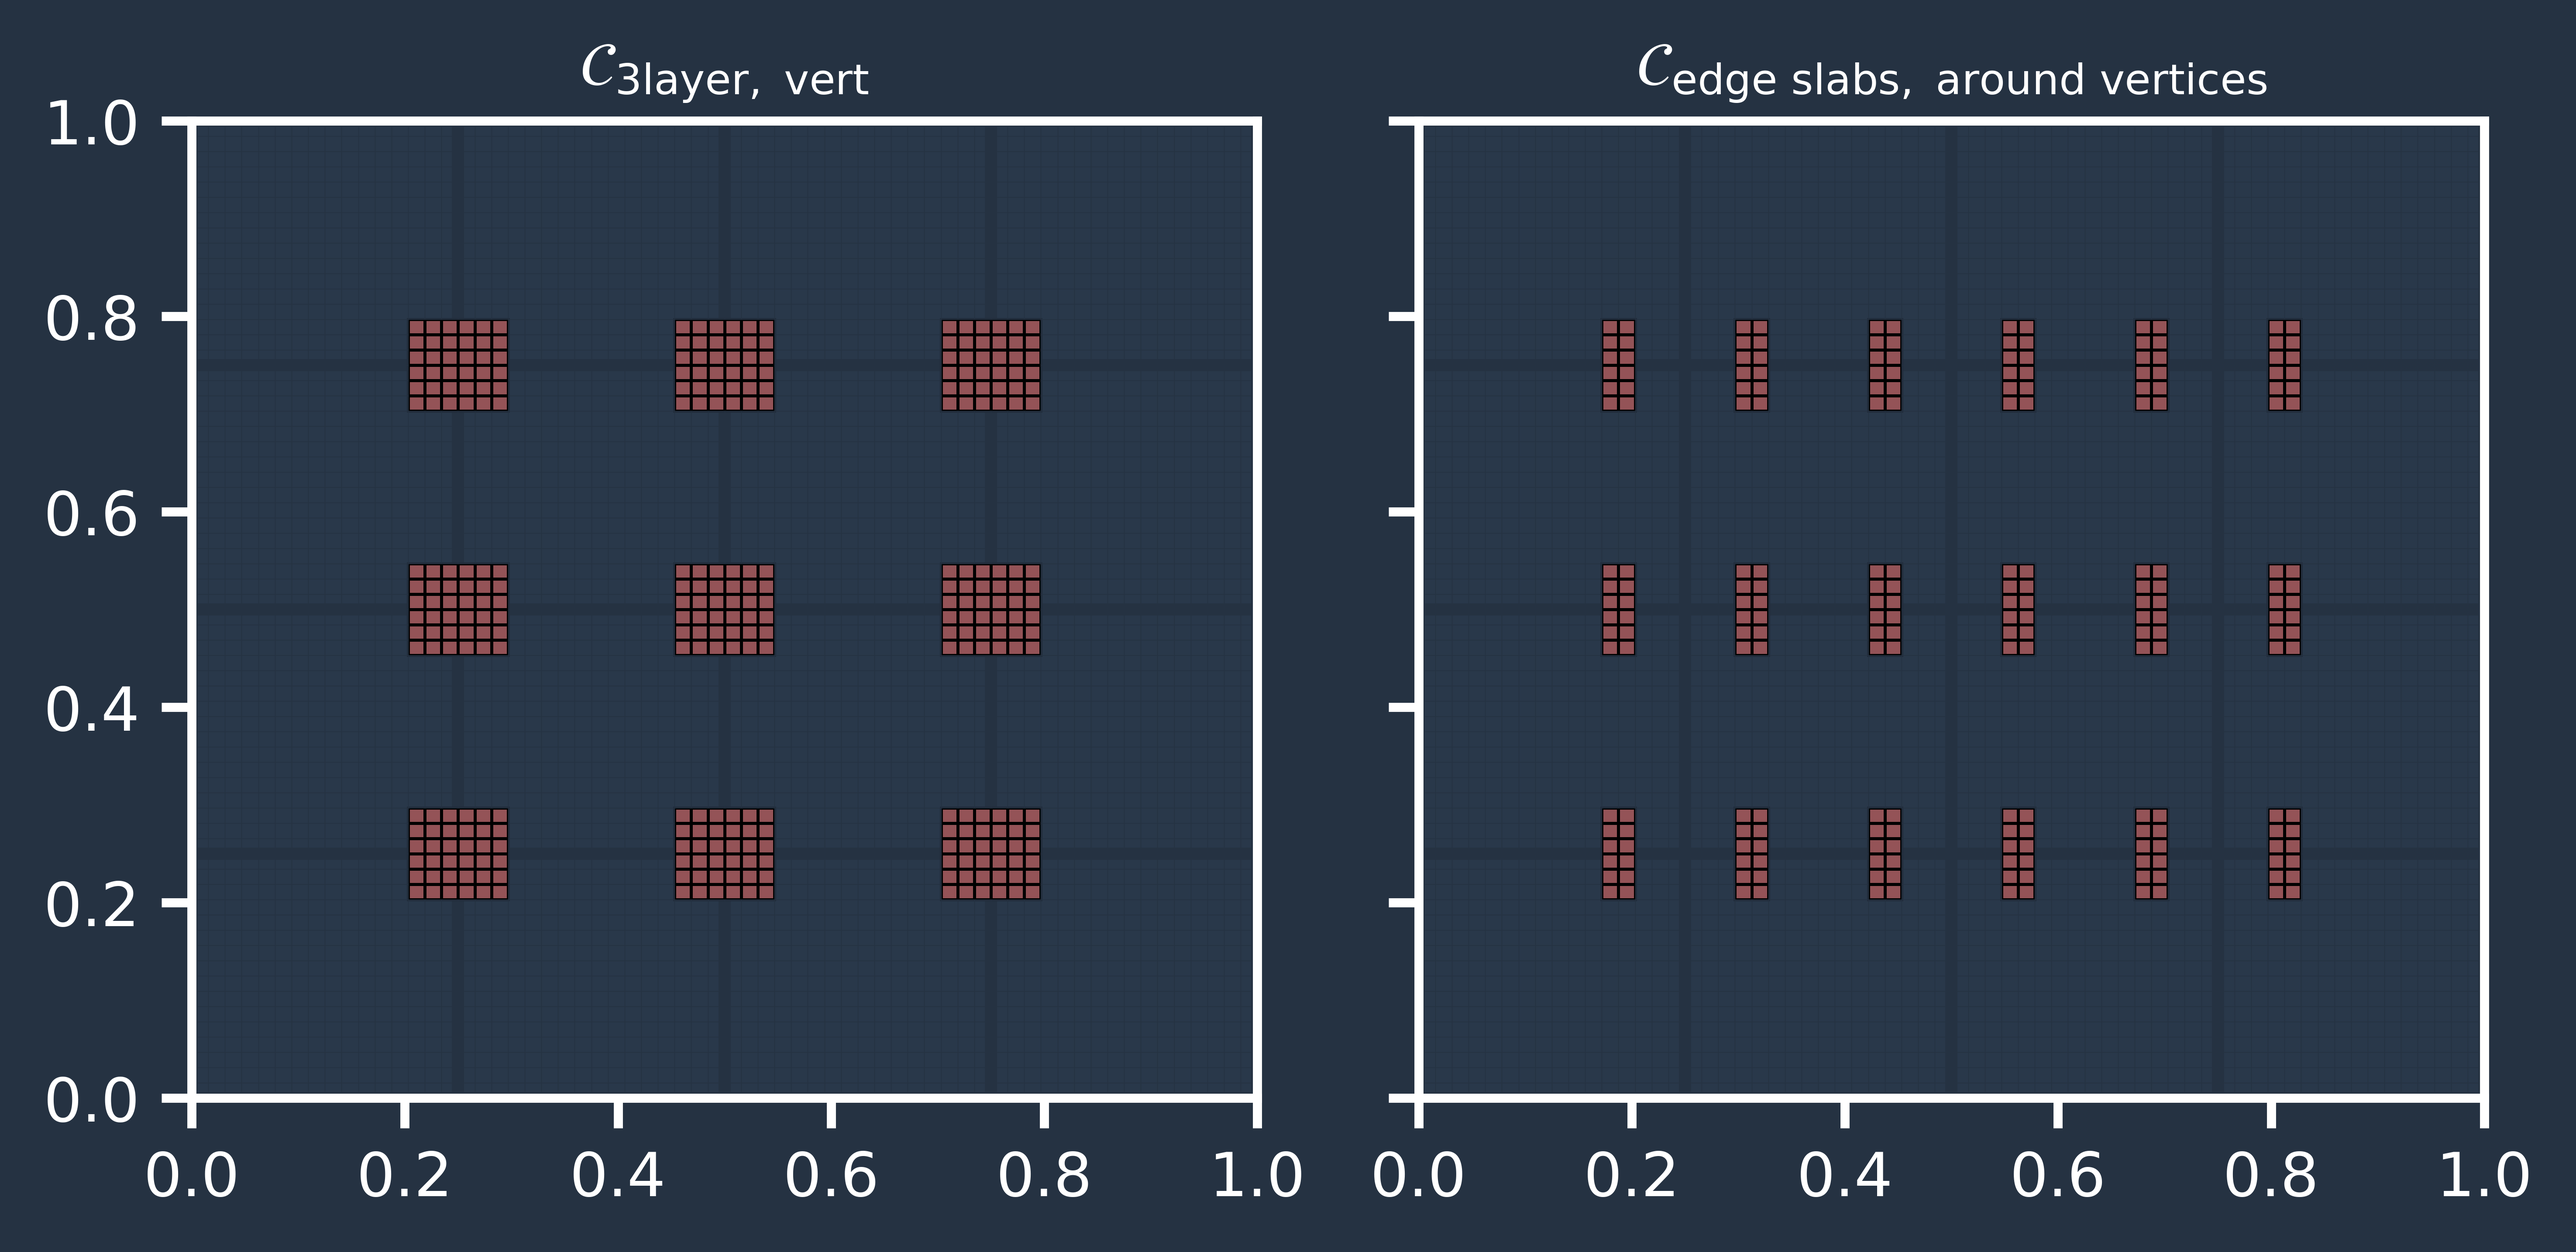
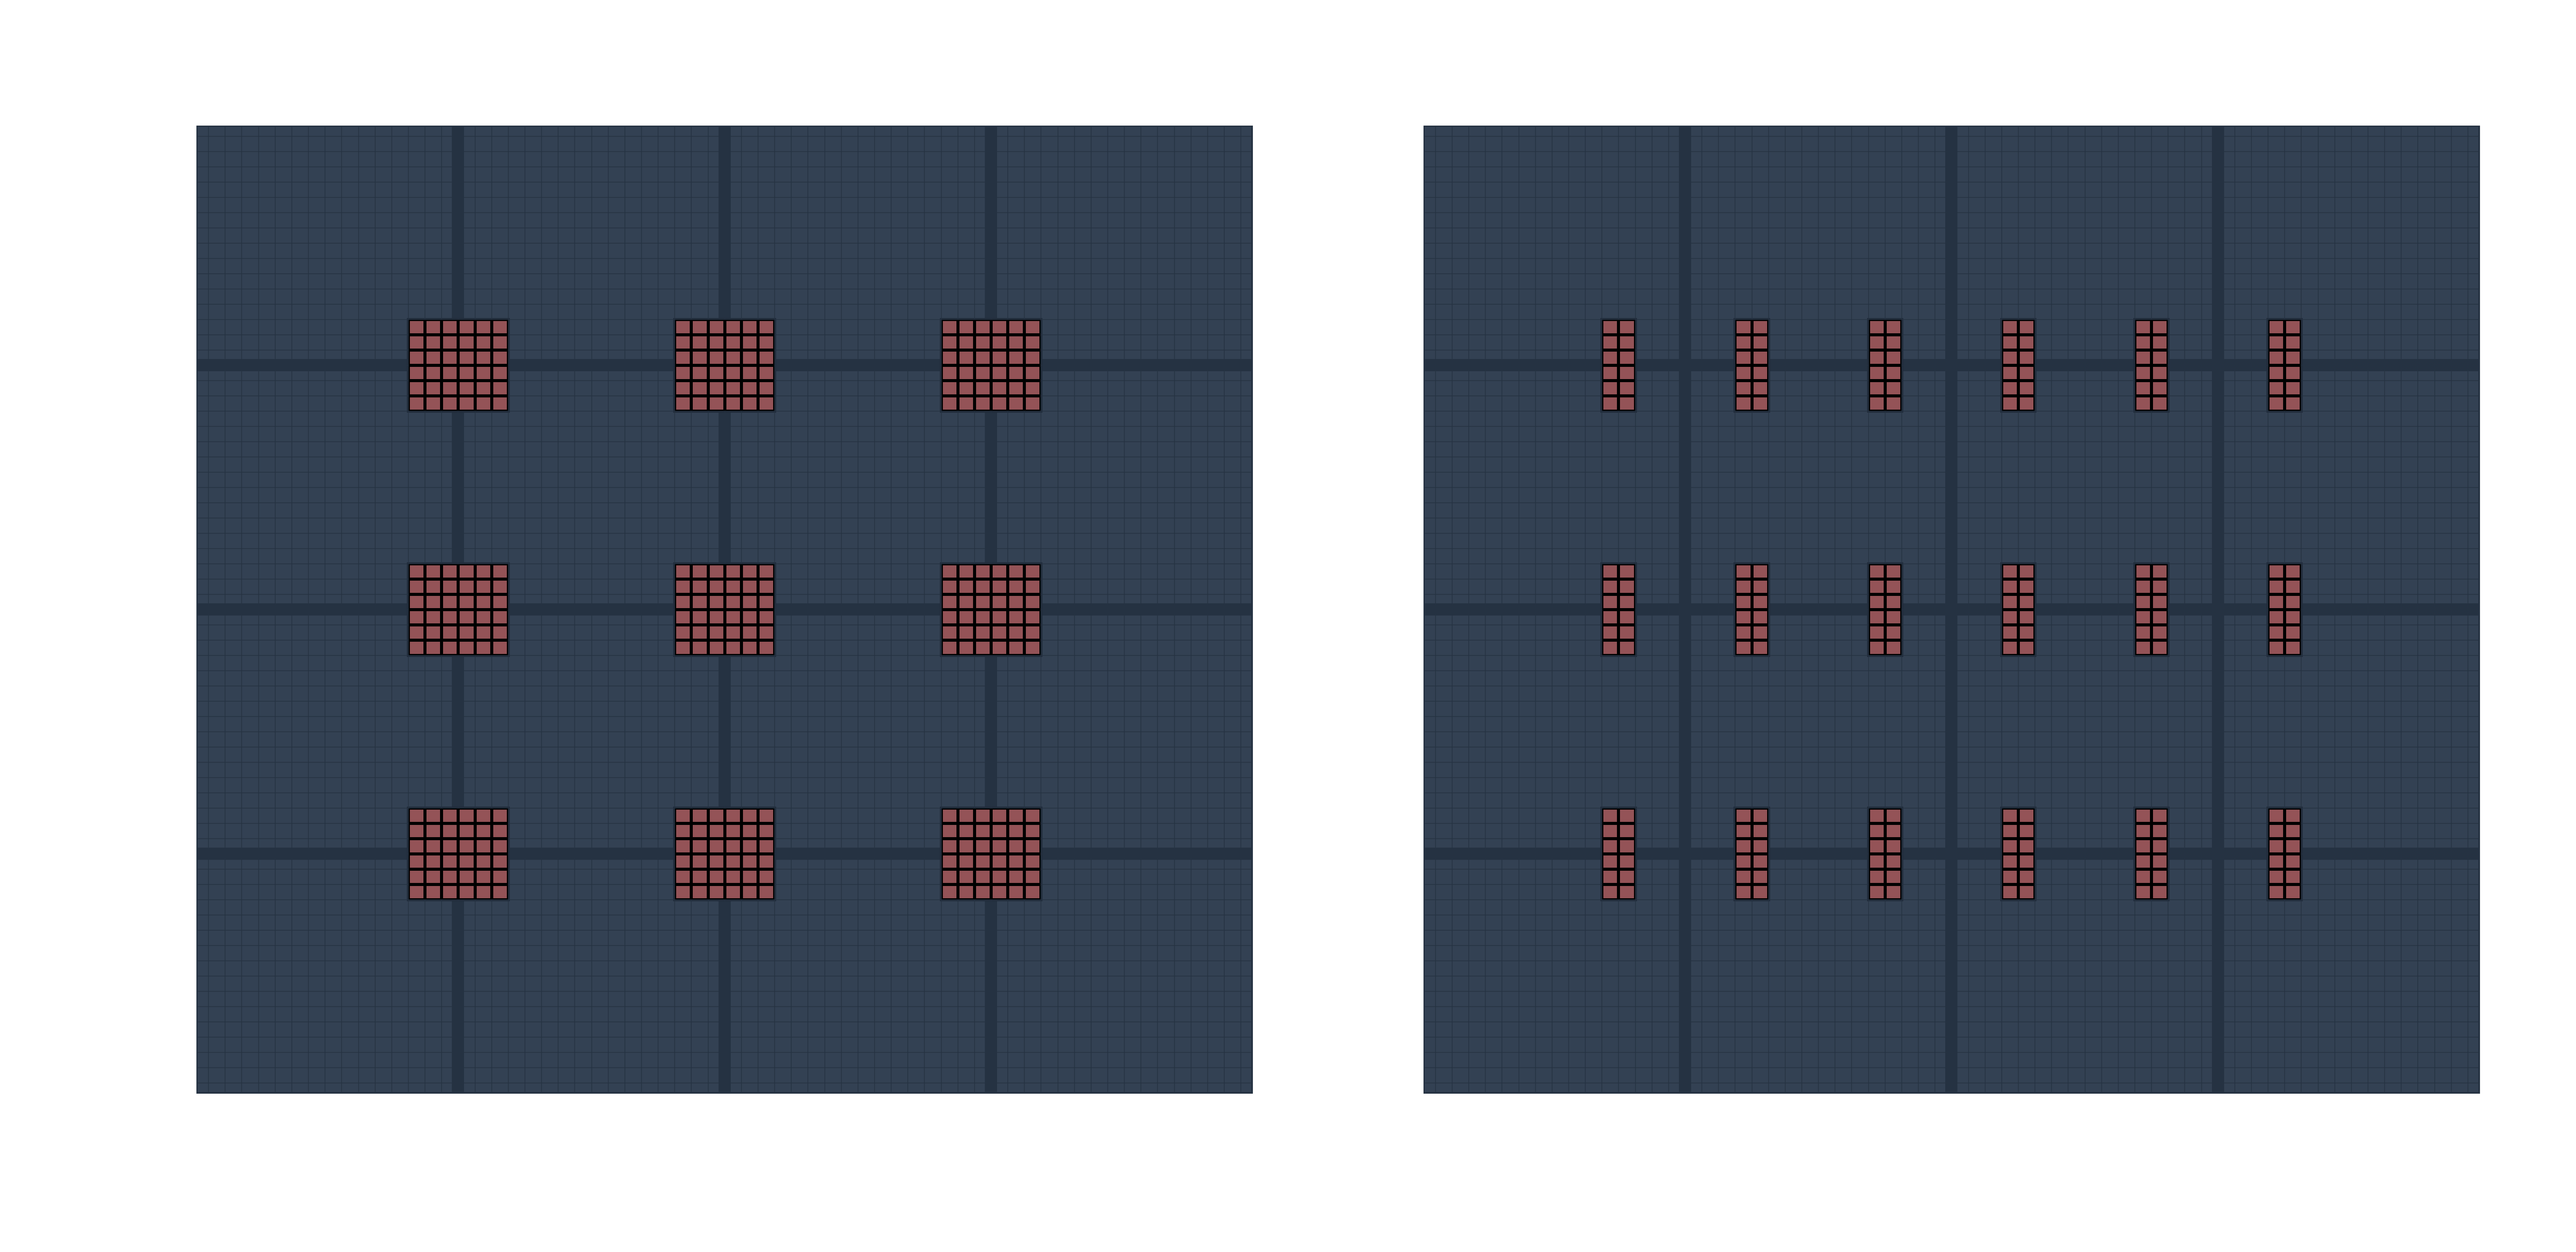
Generated png output of results

diff --git a/code/visualization/mesh_and_cfuncs_presentation.py b/code/visualization/mesh_and_cfuncs_presentation.py
@@ -1,30 +1,24 @@
 from mesh_and_coefficient_functions_fig import *
+
+from hcmsfem.plot_utils import reformat_fig
 from hcmsfem.root import get_venv_root
 
 IMAGE_DIR = get_venv_root() / "images"
 
-def reformat_fig(fig: plt.Figure) -> plt.Figure:
-    fig.patch.set_facecolor(CustomColors.NAVY.value)
-    # set font colors to white
-    for ax in fig.axes:
-        ax.xaxis.label.set_color("white")
-        ax.yaxis.label.set_color("white")
-        ax.tick_params(axis="x", colors="white")
-        ax.tick_params(axis="y", colors="white")
-        for spine in ax.spines.values():
-            spine.set_edgecolor("white")
-        ax.set_facecolor(CustomColors.NAVY.value)
-        ax.title.set_color("white")
-
-    return fig
 
 def plot_meshes_and_domains_png(two_mesh: TwoLevelMesh) -> plt.Figure:
     fig = plot_meshes_and_domains(two_mesh)
     return reformat_fig(fig)
 
+
 def plot_coefficient_functions_png(two_mesh: TwoLevelMesh) -> plt.Figure:
     fig = plot_coefficient_functions(two_mesh)
     return reformat_fig(fig)
+
+# def plot_cover_image_png(two_mesh: TwoLevelMesh) -> plt.Figure:
+#     fig = plot_cover_image(two_mesh)
+#     return reformat_fig(fig)
+
 
 if __name__ == "__main__":
     two_mesh_4 = TwoLevelMesh(mesh_params=DefaultQuadMeshParams.Nc4)
@@ -39,6 +33,6 @@ if __name__ == "__main__":
     for fig, fn in zip(figs, fns):
         fig.tight_layout()
         if CLI_ARGS.generate_output:
-            fig.savefig(IMAGE_DIR / f"{fn}.png", dpi=1000)
+            fig.savefig(IMAGE_DIR / f"{fn}.png", dpi=1000, transparent=True)
     if CLI_ARGS.show_output:
         plt.show()

diff --git a/code/model_spectra/absolute_performance_fig.py b/code/model_spectra/absolute_performance_fig.py
@@ -61,9 +61,7 @@ def plot_absolute_performance(
     )
     axs = []
     for i in range(len(COEF_FUNCS)):
-        axs.append(
-            fig.add_subplot(gs[0, i], sharey=None if i == 0 else axs[0])
-        )
+        axs.append(fig.add_subplot(gs[0, i], sharey=None if i == 0 else axs[0]))
     legend_ax = fig.add_subplot(gs[1, :])
     legend_ax.axis("off")
 
@@ -234,8 +232,6 @@ def plot_absolute_performance(
 if __name__ == "__main__":
     for i, ((preconditioner_cls, coarse_space_cls)) in enumerate(PRECONDITIONERS):
         legend = True
-        # if coarse_space_cls == AMSCoarseSpace:
-        #     legend = True
         fig = plot_absolute_performance(
             preconditioner_cls,
             coarse_space_cls,
@@ -244,6 +240,6 @@ if __name__ == "__main__":
         shorthand = f"{preconditioner_cls.SHORT_NAME}-{coarse_space_cls.SHORT_NAME}"
         if CLI_ARGS.generate_output:
             fn = Path(__file__).name.replace("_fig.py", f"_{shorthand}")
-            save_latex_figure(fn, fig)
+            save_latex_figure(fn, fig, save_png=True, no_background=True)
     if CLI_ARGS.show_output:
         plt.show()
